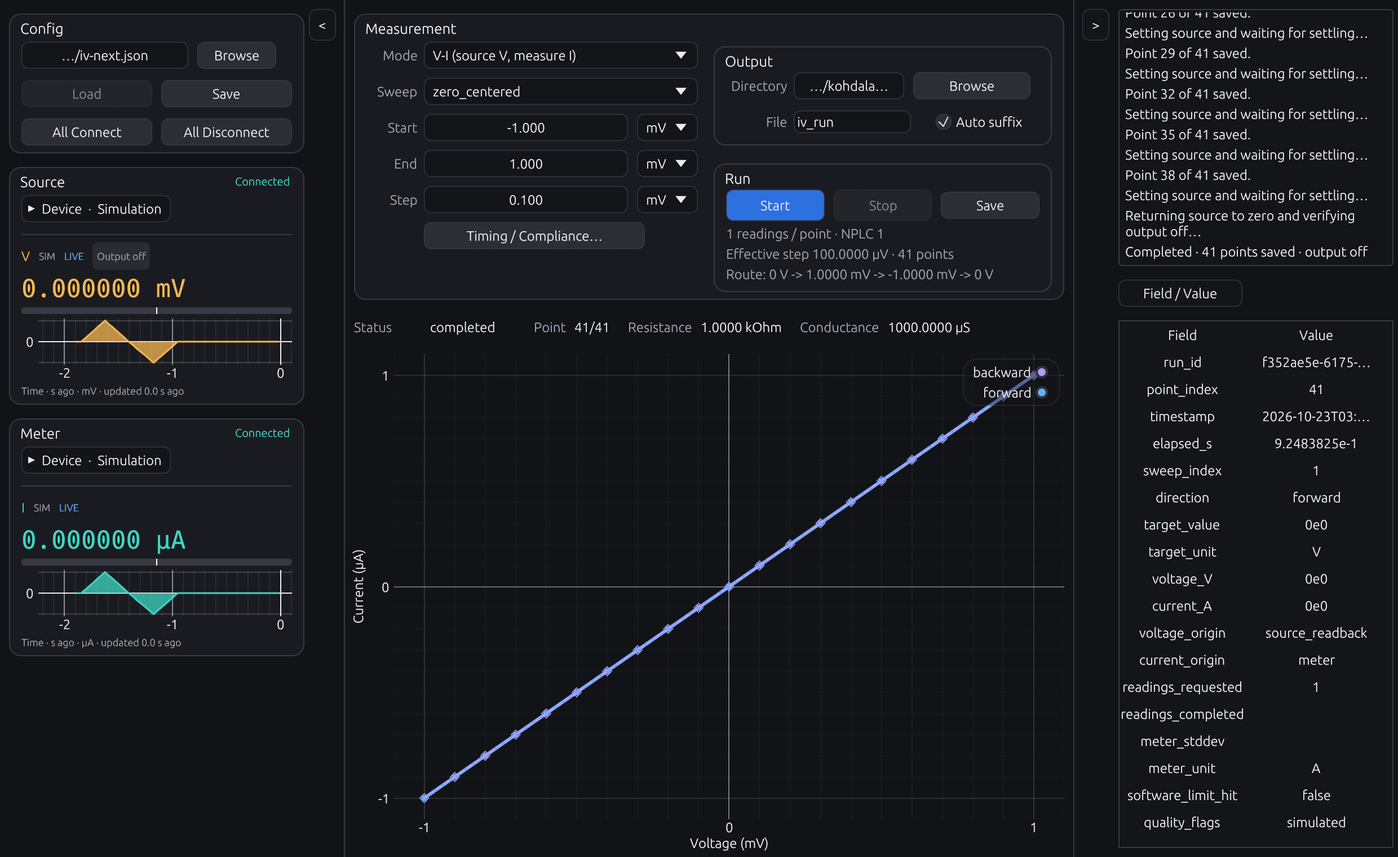
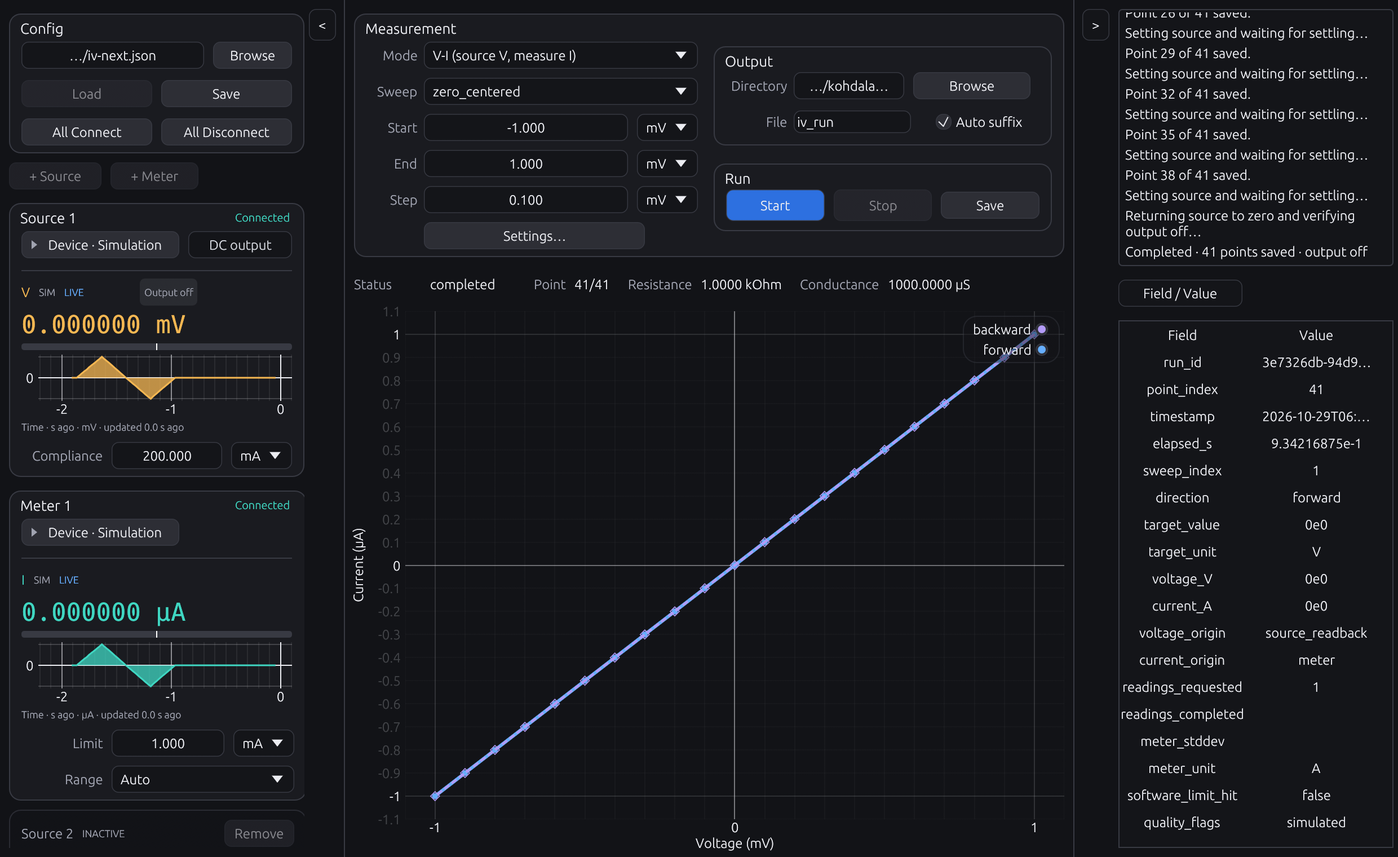
Prepare alpha.16 with compact manual DC range and output controls

diff --git a/crates/iv-desktop/src/ui/dc.rs b/crates/iv-desktop/src/ui/dc.rs
@@ -75,40 +75,56 @@ fn select_dc_range(settings: &mut settings::DcSettings, range: &iv_core::SourceR
     };
 }
 
-fn range_tabs(
+fn range_selector(
     ui: &mut egui::Ui,
     ranges: &[iv_core::SourceRangeProfile],
     selected: Option<f64>,
     unit: &str,
 ) -> Option<f64> {
-    let available = ui.available_width();
     let mut clicked = None;
-    ui.scope(|ui| {
-        ui.spacing_mut().item_spacing.x = 2.0;
-        ui.spacing_mut().button_padding.x = 2.0;
-        let count = ranges.len().max(1) as f32;
-        let width = ((available - 2.0 * (count - 1.0)) / count).floor().max(1.0);
-        ui.horizontal(|ui| {
-            for range in ranges {
-                if ui
-                    .add_sized(
-                        [width, 24.0],
-                        egui::Button::new(RichText::new(&range.name).size(10.0))
-                            .truncate()
-                            .selected(selected == Some(range.command_value)),
-                    )
-                    .on_hover_text(format!(
-                        "{} · ±{} · increment {}",
-                        range.name,
-                        fmt_quantity(range.maximum, unit),
-                        fmt_quantity(range.resolution, unit)
-                    ))
-                    .clicked()
-                {
-                    clicked = Some(range.command_value);
-                }
-            }
-        });
+    let index = ranges
+        .iter()
+        .position(|range| Some(range.command_value) == selected);
+    let spacing = ui.spacing().item_spacing.x;
+    let center_width = (ui.available_width() - 2.0 * 30.0 - 2.0 * spacing).max(1.0);
+    ui.horizontal(|ui| {
+        if ui
+            .add_enabled(
+                index.is_some_and(|index| index > 0),
+                egui::Button::new("<").min_size(egui::vec2(30.0, 26.0)),
+            )
+            .on_hover_text("Previous source range")
+            .clicked()
+        {
+            clicked = index
+                .and_then(|index| index.checked_sub(1))
+                .map(|index| ranges[index].command_value);
+        }
+        let range = index.and_then(|index| ranges.get(index));
+        let response = ui.add_sized(
+            [center_width, 26.0],
+            egui::Label::new(
+                RichText::new(range.map_or("Select range", |range| range.name.as_str())).strong(),
+            )
+            .halign(egui::Align::Center),
+        );
+        if let Some(range) = range {
+            response.on_hover_text(format!(
+                "±{} · increment {}",
+                fmt_quantity(range.maximum, unit),
+                fmt_quantity(range.resolution, unit)
+            ));
+        }
+        if ui
+            .add_enabled(
+                index.is_some_and(|index| index + 1 < ranges.len()),
+                egui::Button::new(">").min_size(egui::vec2(30.0, 26.0)),
+            )
+            .on_hover_text("Next source range")
+            .clicked()
+        {
+            clicked = index.map(|index| ranges[index + 1].command_value);
+        }
     });
     clicked
 }
@@ -402,7 +418,7 @@ impl IvApp {
                         };
                         let ranges = dc_ranges(&entry.model, settings.mode);
                         ui.add_enabled_ui(!on, |ui| {
-                            if let Some(command) = range_tabs(ui, &ranges, settings.range, unit)
+                            if let Some(command) = range_selector(ui, &ranges, settings.range, unit)
                                 && let Some(range) = ranges.iter().find(|range| range.command_value == command) {
                                 select_dc_range(&mut settings, range);
                                 super::digits::reset_editor(ui.ctx(), id);
@@ -410,6 +426,7 @@ impl IvApp {
                         }).response.on_disabled_hover_text("Turn output OFF before changing range.");
                         if let Some(range) = ranges.iter().find(|range| Some(range.command_value) == settings.range) {
                             let limits = crate::protocol::DcLimits { range: range.command_value, maximum: range.maximum, resolution: range.resolution };
+                            settings.units[0] = if settings.mode == Mode::Vi || range.name.contains("mV") { 1 } else { 0 };
                             let config = super::digits::DigitControl {
                                 value: settings.value,
                                 unit: &mut settings.units[0],
@@ -477,6 +494,7 @@ impl IvApp {
                         }
                     }
                 }
+                let action_width = (ui.available_width() - ui.spacing().item_spacing.x) / 2.0;
                 ui.horizontal(|ui| {
                     let state = self.dc_output(id);
                     let can_turn_off = connected && state != OutputState::Off;
@@ -486,7 +504,7 @@ impl IvApp {
                         OutputState::Unknown => ("Output ?", RED, Color32::WHITE),
                         OutputState::Off => ("Output OFF", INPUT, MUTED),
                     };
-                    if ui.add_enabled(can_turn_off || can_turn_on, egui::Button::new(RichText::new(text).color(color)).fill(fill).min_size(egui::vec2(113.0, 26.0)))
+                    if ui.add_enabled(can_turn_off || can_turn_on, egui::Button::new(RichText::new(text).color(color)).fill(fill).min_size(egui::vec2(action_width, 26.0)))
                         .on_hover_text(if can_turn_off { "Turn output OFF immediately. Stops an active sweep." } else { "Enable the selected DC level. Range stays fixed while ON." }).clicked() {
                         if can_turn_off {
                             off_requested = true;
@@ -503,7 +521,7 @@ impl IvApp {
                             self.send_dc_job(command);
                         }
                     }
-                    if button(ui, "Zero", 60.0, editable && settings.range.is_some() && (!on || validation.is_ok()) && (!connected || state != OutputState::Unknown))
+                    if ui.add_enabled(editable && settings.range.is_some() && (!on || validation.is_ok()) && (!connected || state != OutputState::Unknown), egui::Button::new("Zero").fill(BUTTON).min_size(egui::vec2(action_width, 26.0)))
                         .on_hover_text("Ramp to zero within the selected range. Output stays ON if already ON; while OFF this only edits the level.").clicked() {
                         settings.value = 0.0;
                         super::digits::reset_editor(ui.ctx(), id);
@@ -907,7 +925,7 @@ mod tests {
     use super::*;
     use crate::protocol::GuiJobCompletion;
     #[test]
-    fn all_manual_range_tabs_fit_one_row_in_a_compact_card() {
+    fn manual_range_selector_fits_one_row_in_a_compact_card() {
         let context = egui::Context::default();
         let ranges = dc_ranges("YOKOGAWA_GS210", Mode::Iv);
         let _ = context.run(
@@ -922,11 +940,11 @@ mod tests {
                 egui::CentralPanel::default().show(ctx, |ui| {
                     ui.set_width(224.0);
                     let before = ui.cursor().min.y;
-                    assert_eq!(range_tabs(ui, &ranges, Some(1.0), "V"), None);
+                    assert_eq!(range_selector(ui, &ranges, Some(1.0), "V"), None);
                     assert!(ui.cursor().min.y - before < 35.0);
                     assert!(
                         ui.min_rect().width() <= 224.1,
-                        "tab row width {}",
+                        "range selector width {}",
                         ui.min_rect().width()
                     );
                 });

diff --git a/crates/iv-desktop/src/ui/digits.rs b/crates/iv-desktop/src/ui/digits.rs
@@ -175,11 +175,9 @@ pub(super) fn output_digits(ui: &mut egui::Ui, id: u64, control: DigitControl<'_
         .data_mut(|data| data.get_temp::<bool>(edit_id))
         .unwrap_or(false);
     let mut candidate = None;
-    // Keep the unit chooser pinned on the right.  Very small display units can
-    // require many fixed leading digits, so their digit strip scrolls instead
-    // of shrinking controls or changing the selected unit.
+    // Keep the range-derived unit pinned on the right; it cannot change
+    // independently from the hardware range.
     let columns = layout.text.chars().filter(char::is_ascii_digit).count();
-    let mut unit_changed = false;
     let previous_spacing = ui.spacing().item_spacing.x;
     ui.spacing_mut().item_spacing.x = 2.0;
     ui.horizontal_top(|ui| {
@@ -302,16 +300,12 @@ pub(super) fn output_digits(ui: &mut egui::Ui, id: u64, control: DigitControl<'_
                     format!("n{base}"),
                     format!("p{base}"),
                 ];
-                egui::ComboBox::from_id_salt(("dc_digit_unit", id))
-                    .width(51.0)
-                    .selected_text(&names[*unit])
-                    .show_ui(ui, |ui| {
-                        for (index, name) in names.iter().enumerate() {
-                            unit_changed |= ui.selectable_value(unit, index, name).changed();
-                        }
-                    })
-                    .response
-                    .on_hover_text("Display unit only; changing it does not change output.");
+                ui.add_sized(
+                    [51.0, 26.0],
+                    egui::Label::new(RichText::new(&names[*unit]).strong())
+                        .halign(egui::Align::Center),
+                )
+                .on_hover_text("Unit is fixed by the selected source range.");
             },
         );
     });
@@ -369,7 +363,7 @@ pub(super) fn output_digits(ui: &mut egui::Ui, id: u64, control: DigitControl<'_
     }
     ui.ctx().data_mut(|data| data.insert_temp(edit_id, edit));
     ui.spacing_mut().item_spacing.x = previous_spacing;
-    if enabled && !unit_changed && !edit {
+    if enabled && !edit {
         candidate.filter(|next| *next != value)
     } else {
         None
@@ -554,7 +548,7 @@ mod tests {
         assert!((layout.text.parse::<f64>().unwrap() * layout.scale - 0.2).abs() < 1e-15);
     }
     #[test]
-    fn drawing_and_unit_selection_do_not_request_any_output_change() {
+    fn drawing_the_fixed_unit_does_not_request_any_output_change() {
         let context = egui::Context::default();
         for initial_unit in 0..5 {
             let mut unit = initial_unit;

diff --git a/scripts/package_rust_build_kit.py b/scripts/package_rust_build_kit.py
@@ -59,7 +59,8 @@ def main() -> None:
             "Pinned Windows helpers, full native source, licenses and icons are included.\n"
             "Meter Auto/fixed range presets: specs/meters.toml. "
             "Usage: docs/reference/meter-ranging.md.\n"
-            "Manual DC controls: docs/reference/manual-dc-output.md. "
+            "Manual DC range selector, fixed range-derived digits, and Zero: "
+            "docs/reference/manual-dc-output.md. "
             "Shared GPIB service sources are development-only; see "
             "docs/guides/shared-instruments-development.md.\n"
             "Rust and platform compiler tools are needed only on the build PC.\n",

diff --git a/README.md b/README.md
@@ -28,6 +28,17 @@ Simulation example: instrument setup and live signals on the left, sweep and plo
 シミュレーション例です。左に計測器の設定とライブ信号、中央にスイープとプロット、右に保存値とログを表示します。
 
 <details>
+<summary>Manual DC output / 手動DC出力</summary>
+
+![Manual DC range selector and output controls](docs/images/manual-dc.png)
+
+Simulation example: centre the selected range between the previous/next buttons. The range fixes the level unit and precision. Output lights when ON is verified; Zero ramps to zero while keeping ON. Range changes require OFF.
+
+シミュレーション例です。中央のレンジを左右のボタンで選び、数値の単位と桁数はレンジに連動します。ONを確認したOutputは点灯し、ZeroはONを維持したままゼロへランプします。レンジ変更はOFF時のみ可能です。
+
+</details>
+
+<details>
 <summary>Compliance and measurement-limit alerts / 制限到達時の表示</summary>
 
 ![Limit-stop popup and fixed-height live indicator](docs/images/limit-stop.png)
@@ -43,14 +54,14 @@ A stopped simulation: the popup shows the threshold, trigger reading and verifie
 | Channel / 配布チャネル | Version / バージョン | Platforms / 対応プラットフォーム |
 | --- | --- | --- |
 | Stable / 安定版 | [1.2.0](https://github.com/woolen-yarn/kohdalab-iv/releases/tag/portable-v1.2.0) | Windows x64 Setup / portable ZIP; macOS Apple silicon portable ZIP / Windows x64 セットアップ・ポータブル ZIP、macOS Apple silicon ポータブル ZIP |
-| Preview / プレビュー | [1.3.0-alpha.15](https://github.com/woolen-yarn/kohdalab-iv/releases/tag/preview-v1.3.0-alpha.15) | Windows x64 Setup / preview ZIP; macOS Apple silicon preview ZIP / Windows x64 セットアップ・プレビュー ZIP、macOS Apple silicon プレビュー ZIP |
+| Preview / プレビュー | [1.3.0-alpha.16](https://github.com/woolen-yarn/kohdalab-iv/releases/tag/preview-v1.3.0-alpha.16) | Windows x64 Setup / preview ZIP; macOS Apple silicon preview ZIP / Windows x64 セットアップ・プレビュー ZIP、macOS Apple silicon プレビュー ZIP |
 
 | Preview package / プレビューパッケージ | Kohdalab | Personal / 個人ミラー |
 | --- | --- | --- |
-| Windows Setup | [Download](https://github.com/Kohdalab/kohdalab-iv/releases/download/preview-v1.3.0-alpha.15/kohdalab-iv-1.3.0-alpha.15-windows-x64-Setup.exe) | [Download](https://github.com/woolen-yarn/kohdalab-iv/releases/download/preview-v1.3.0-alpha.15/kohdalab-iv-1.3.0-alpha.15-windows-x64-Setup.exe) |
-| Windows portable | [Download](https://github.com/Kohdalab/kohdalab-iv/releases/download/preview-v1.3.0-alpha.15/kohdalab-iv-1.3.0-alpha.15-windows-x64-preview.zip) | [Download](https://github.com/woolen-yarn/kohdalab-iv/releases/download/preview-v1.3.0-alpha.15/kohdalab-iv-1.3.0-alpha.15-windows-x64-preview.zip) |
-| Mac portable (Apple silicon) | [Download](https://github.com/Kohdalab/kohdalab-iv/releases/download/preview-v1.3.0-alpha.15/kohdalab-iv-1.3.0-alpha.15-macos-arm64-preview.zip) | [Download](https://github.com/woolen-yarn/kohdalab-iv/releases/download/preview-v1.3.0-alpha.15/kohdalab-iv-1.3.0-alpha.15-macos-arm64-preview.zip) |
-| Source build kit / ソースビルドキット | [Download](https://github.com/Kohdalab/kohdalab-iv/releases/download/preview-v1.3.0-alpha.15/kohdalab-iv-1.3.0-alpha.15-build-kit.zip) | [Download](https://github.com/woolen-yarn/kohdalab-iv/releases/download/preview-v1.3.0-alpha.15/kohdalab-iv-1.3.0-alpha.15-build-kit.zip) |
+| Windows Setup | [Download](https://github.com/Kohdalab/kohdalab-iv/releases/download/preview-v1.3.0-alpha.16/kohdalab-iv-1.3.0-alpha.16-windows-x64-Setup.exe) | [Download](https://github.com/woolen-yarn/kohdalab-iv/releases/download/preview-v1.3.0-alpha.16/kohdalab-iv-1.3.0-alpha.16-windows-x64-Setup.exe) |
+| Windows portable | [Download](https://github.com/Kohdalab/kohdalab-iv/releases/download/preview-v1.3.0-alpha.16/kohdalab-iv-1.3.0-alpha.16-windows-x64-preview.zip) | [Download](https://github.com/woolen-yarn/kohdalab-iv/releases/download/preview-v1.3.0-alpha.16/kohdalab-iv-1.3.0-alpha.16-windows-x64-preview.zip) |
+| Mac portable (Apple silicon) | [Download](https://github.com/Kohdalab/kohdalab-iv/releases/download/preview-v1.3.0-alpha.16/kohdalab-iv-1.3.0-alpha.16-macos-arm64-preview.zip) | [Download](https://github.com/woolen-yarn/kohdalab-iv/releases/download/preview-v1.3.0-alpha.16/kohdalab-iv-1.3.0-alpha.16-macos-arm64-preview.zip) |
+| Source build kit / ソースビルドキット | [Download](https://github.com/Kohdalab/kohdalab-iv/releases/download/preview-v1.3.0-alpha.16/kohdalab-iv-1.3.0-alpha.16-build-kit.zip) | [Download](https://github.com/woolen-yarn/kohdalab-iv/releases/download/preview-v1.3.0-alpha.16/kohdalab-iv-1.3.0-alpha.16-build-kit.zip) |
 
 Rust and Python are not required to run the packaged application. Current Windows
 artifacts are unsigned; download packages and checksums together from Releases.
@@ -58,9 +69,9 @@ macOS bundles use ad hoc signing and are not Apple-notarized.
 
 配布アプリケーションの実行に Rust や Python は不要です。現在の Windows 配布物は未署名です。Releases からパッケージとチェックサムを必ず一緒に取得してください。macOS バンドルは ad hoc 署名であり、Apple の公証は受けていません。
 
-Preview 1.3.0-alpha.15 adds independent Auto/fixed voltage and current meter ranges, verified before output and held through return sweeps, and manual DC source cards with per-digit level adjustment. Existing CSV columns and protection remain unchanged. ADCMT 7461A remains Auto-only. See [meter ranging](docs/reference/meter-ranging.md), [manual DC operation](docs/reference/manual-dc-output.md), and the [GUI API reference](docs/reference/gui-api.md). The shared GPIB service is an explicit development option, not the default connection route.
+Preview 1.3.0-alpha.16 makes manual DC range selection explicit: use the central range selector and its left/right arrows to choose a documented native range before Output. The Source card then keeps a fixed, range-derived V/mV/mA display unit and precision; Output and Zero are equal-width controls. Device → live → settings remains the compact Source/Meter workflow. Meter transition protection, CSV columns, and existing output safety remain unchanged. See [manual DC operation](docs/reference/manual-dc-output.md), [meter ranging](docs/reference/meter-ranging.md), and [alpha.16 validation](docs/validation/manual-dc-alpha16.md).
 
-Preview 1.3.0-alpha.15では、電圧・電流ごとのAuto／固定メーターレンジ、出力前の設定確認、往復掃引全体のレンジ維持、桁ごとに値を調整できる手動DC出力を追加しました。CSVの列と既存の保護は維持します。ADCMT 7461AはAutoのみです。[メーターレンジ](docs/reference/meter-ranging.md)、[手動DC操作](docs/reference/manual-dc-output.md)、[GUI API仕様](docs/reference/gui-api.md)を参照してください。GPIB共有サービスは明示的に選択する開発機能で、通常接続には影響しません。
+Preview 1.3.0-alpha.16では、手動DCのレンジを明示的に選択します。中央のレンジ選択と左右矢印で、出力前に対応するネイティブレンジを選びます。Sourceカードは選択レンジに基づく固定のV/mV/mA表示と桁数を維持し、OutputとZeroは同じ幅です。Source／MeterはDevice → live → settingsのコンパクトな流れを維持します。メーターのレンジ遷移保護、CSV列、既存の出力安全機能は変更しません。[手動DC操作](docs/reference/manual-dc-output.md)、[メーターレンジ](docs/reference/meter-ranging.md)、[alpha.16検証](docs/validation/manual-dc-alpha16.md)を参照してください。
 
 ## Supported hardware / 対応機器
 

diff --git a/CHANGELOG.md b/CHANGELOG.md
@@ -10,6 +10,15 @@
 - Guard Auto range changes across documented resistance groups, stopping conservatively on unknown loading changes. Verify the baseline before sweep/DC output ON and preserve it across held DC edits; request OFF before further acquisition/evidence and exclude the transition conversion from analysis CSV. ADCMT range monitoring remains unavailable pending verified commands.
 - 中央は2列を維持し、コンプライアンス・Meter limit／rangeを左の各カードへ、Wait timeをSettings内へ整理。Autoの抵抗変化を検出した場合は出力OFF・停止し、固定レンジでの再測定を案内します。
 
+## 1.3.0-alpha.16 — 2026-10-29
+
+- Replace automatic manual-DC range changes with an explicit documented native-range selector and left/right range arrows. A fixed DC request validates level and ramp step on that selected source grid; changing an explicit range while output is ON is rejected and handled fail-safe.
+- Keep range-derived V/mV/mA units and fixed decimal places in the Source DC display. Make Output and Zero equal-width controls, while retaining the compact Device → live → settings workflow for Source and Meter cards.
+- Preserve CSV formats, meter transition protection, source protection and existing GUI/API compatibility when no explicit DC range is supplied. Preview validation records automated mock/simulation coverage; publication proceeds without a new all-device physical retest at the user’s direction.
+- 手動DCの自動レンジ変更を、対応するネイティブレンジの明示選択と左右矢印へ置き換えました。固定DC要求は選択レンジのグリッドで値とランプを検証し、出力ON中の明示レンジ変更は拒否して安全側で処理します。
+- Source DC表示は選択レンジ由来のV/mV/mA単位と固定小数桁を維持します。OutputとZeroは同じ幅とし、Source／MeterカードのDevice → live → settingsのコンパクトな流れを維持します。
+- 明示レンジを指定しない既存GUI/APIでは互換性を維持し、CSV形式、メーター遷移保護、ソース保護も保持します。プレビューでは自動mock／simulationを検証し、利用者の指示により全装置の実機再試験を待たず公開します。新たな実機測定の記録を主張しません。
+
 ## 1.3.0-alpha.15 — 2026-10-29
 
 - Add independent Auto/fixed meter voltage and current ranges. Verify fixed settings before source ON and monitor actual range through return sweeps, repeated/settling conversions, idle live acquisition, and Dual; request OFF on mismatch. ADCMT 7461A remains Auto-only pending command verification.

diff --git a/docs/validation/manual-dc-alpha16.md b/docs/validation/manual-dc-alpha16.md
@@ -1,0 +1,52 @@
+# Manual DC range selection — alpha.16 validation
+
+This note separates implementation evidence from physical-test assumptions for the
+`1.3.0-alpha.16` preview. It is not a calibration record and does not claim
+new independent measurements.
+
+## Scope
+
+The preview replaces automatic manual-DC range changes in the GUI with an
+explicit documented source range. The selected range determines the accepted
+level and ramp grid, the displayed unit/precision, and the programmed native
+range command. While output is ON, a request to select another explicit range
+is rejected and the output path remains fail-safe.
+
+The GUI presents the range selector with left/right arrows around its centred
+display in the DC controls. Source and Meter cards retain the compact Device → live → settings
+flow. Output and Zero are equal-width controls; Zero is an ordinary in-range
+level request and does not itself mean Output OFF.
+
+## Automated evidence
+
+The repository's mock transport and simulation tests cover command ordering
+and safety boundaries without opening a physical instrument or changing a
+driver. In particular, the alpha.16 regression coverage checks that:
+
+- a physical-mock cross-range request verifies OFF before the native range
+  write and enables output only afterward;
+- a value change within a held range, including Zero, does not rewrite OFF,
+  ON, or the range command;
+- an explicit range change while ON is rejected and fails safe;
+- an unsupported range, an off-grid level, or a GS210 divider range that would
+  weaken requested protection does not enable output;
+- legacy commands without an explicit `range` continue to use the existing
+  compatibility path.
+
+These are automated mock/simulation results. They verify software behavior and
+recorded command order, not electrical accuracy, terminal voltage, or an
+instrument's calibration.
+
+## Physical verification scope
+
+At the user's direction, publication proceeds without a new all-device physical
+retest. Physical operation across supported devices is assumed for this release;
+it is not an independently verified pass recorded by this validation. No new
+per-model settings, readings, ranges, or calibration results were collected.
+
+Supported-model scope remains the catalog in `specs/sources.toml` and
+`specs/meters.toml`; availability and model limitations are listed in the
+root [README](../../README.md#supported-hardware--対応機器). Follow the
+[manual DC operation reference](../reference/manual-dc-output.md), verify
+wiring and protection at the instrument, and start with a safe unloaded or
+known load condition appropriate to the experiment.

diff --git a/docs/reference/manual-dc-output.md b/docs/reference/manual-dc-output.md
@@ -17,8 +17,8 @@ a valid digit adjustment is applied immediately using the configured ramp; no
 extra Apply click is required. While OFF, the same controls edit the requested
 level without turning output on. Output ON always remains explicit.
 
-Select a hardware range using the tabs above the digits. The range is manual
-and remains fixed; entering a level never selects another range. Tabs come from
+Select a hardware range using the left/right buttons around its central display. The range is manual
+and remains fixed; entering a level never selects another range. The available ranges come from
 the selected instrument profile. GS200/GS210 voltage ranges are 10 mV, 100 mV,
 1 V, 10 V and 30 V; current ranges are 1 mA, 10 mA, 100 mA and 200 mA.
 Range, function and compliance changes are locked while output is ON.
@@ -26,9 +26,9 @@ Range, function and compliance changes are locked while output is ON.
 The digits use the selected range's maximum and resolution. For example, the
 10 mV range has 100 nV increments and four decimals in mV; 100 mV has 1 µV
 increments and three decimals in mV; 1 V has 10 µV increments and five decimals
-in V. The 1 mA range has 10 nA increments and five decimals in mA. Changing the
-display unit changes these decimal positions without changing the programmed
-level or hardware range. The layout stays fixed within a range/unit pair and
+in V. The 1 mA range has 10 nA increments and five decimals in mA. The display unit is fixed by the selected range: voltage ranges below 1 V use
+mV, other voltage ranges use V, and the supported current ranges use mA.
+There is no independent unit dropdown. The layout stays fixed within a range and
 never switches to exponential notation. Out-of-range or sub-resolution values
 are rejected, not rounded into another output. If an OFF editor's level is
 incompatible with a newly selected range, it resets to zero.
@@ -53,7 +53,7 @@ range cannot be changed while output is ON.
 
 Click a digit or Type… for direct entry. Set validates the value against the
 source grid before committing. Digit actions are disabled while typing, and a
-verified level or display-unit change invalidates the old text buffer. During a
+verified level or selected range change invalidates the old text buffer. During a
 pending source update or sweep, setting changes remain locked; the application
 does not accumulate a queue of future levels. OFF retains its priority path.
 

diff --git a/bindings/python/README.md b/bindings/python/README.md
@@ -20,8 +20,8 @@ uv pip install ./bindings/python
 Install directly from the matching GitHub release:
 
 ```text
-python -m pip install "kohdalab-iv-native @ git+https://github.com/woolen-yarn/kohdalab-iv.git@preview-v1.3.0-alpha.15#subdirectory=bindings/python"
-uv add "kohdalab-iv-native @ git+https://github.com/woolen-yarn/kohdalab-iv.git@preview-v1.3.0-alpha.15#subdirectory=bindings/python"
+python -m pip install "kohdalab-iv-native @ git+https://github.com/woolen-yarn/kohdalab-iv.git@preview-v1.3.0-alpha.16#subdirectory=bindings/python"
+uv add "kohdalab-iv-native @ git+https://github.com/woolen-yarn/kohdalab-iv.git@preview-v1.3.0-alpha.16#subdirectory=bindings/python"
 ```
 
 The discovery enhancements below are included in v1.3.0-alpha.6 and newer.
@@ -203,8 +203,8 @@ uv pip install ./bindings/python
 対応する GitHub リリースから直接インストールする場合は次を使います。
 
 ```text
-python -m pip install "kohdalab-iv-native @ git+https://github.com/woolen-yarn/kohdalab-iv.git@preview-v1.3.0-alpha.15#subdirectory=bindings/python"
-uv add "kohdalab-iv-native @ git+https://github.com/woolen-yarn/kohdalab-iv.git@preview-v1.3.0-alpha.15#subdirectory=bindings/python"
+python -m pip install "kohdalab-iv-native @ git+https://github.com/woolen-yarn/kohdalab-iv.git@preview-v1.3.0-alpha.16#subdirectory=bindings/python"
+uv add "kohdalab-iv-native @ git+https://github.com/woolen-yarn/kohdalab-iv.git@preview-v1.3.0-alpha.16#subdirectory=bindings/python"
 ```
 
 下記の検出機能拡張は v1.3.0-alpha.6 以降に含まれます。リリースタグまたは同梱の
